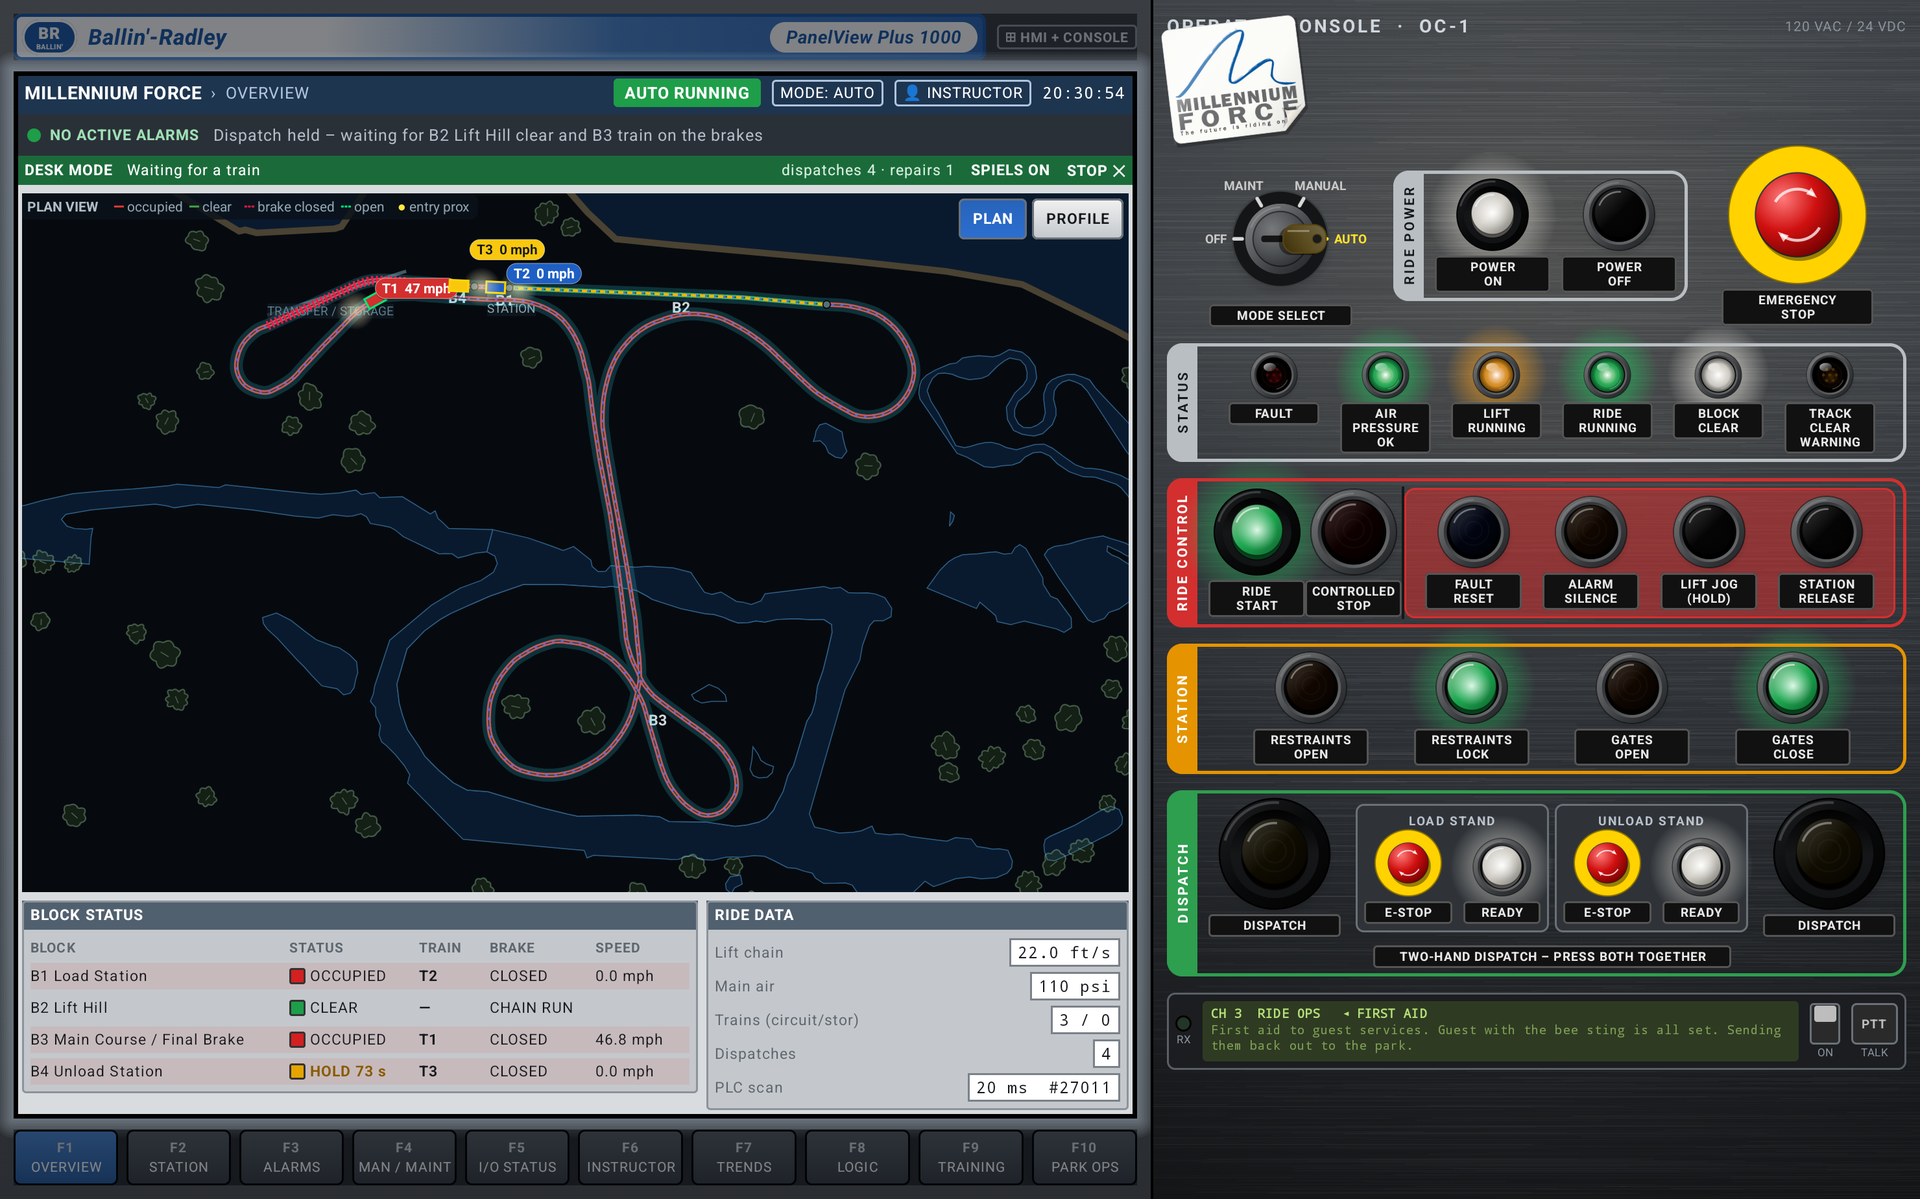
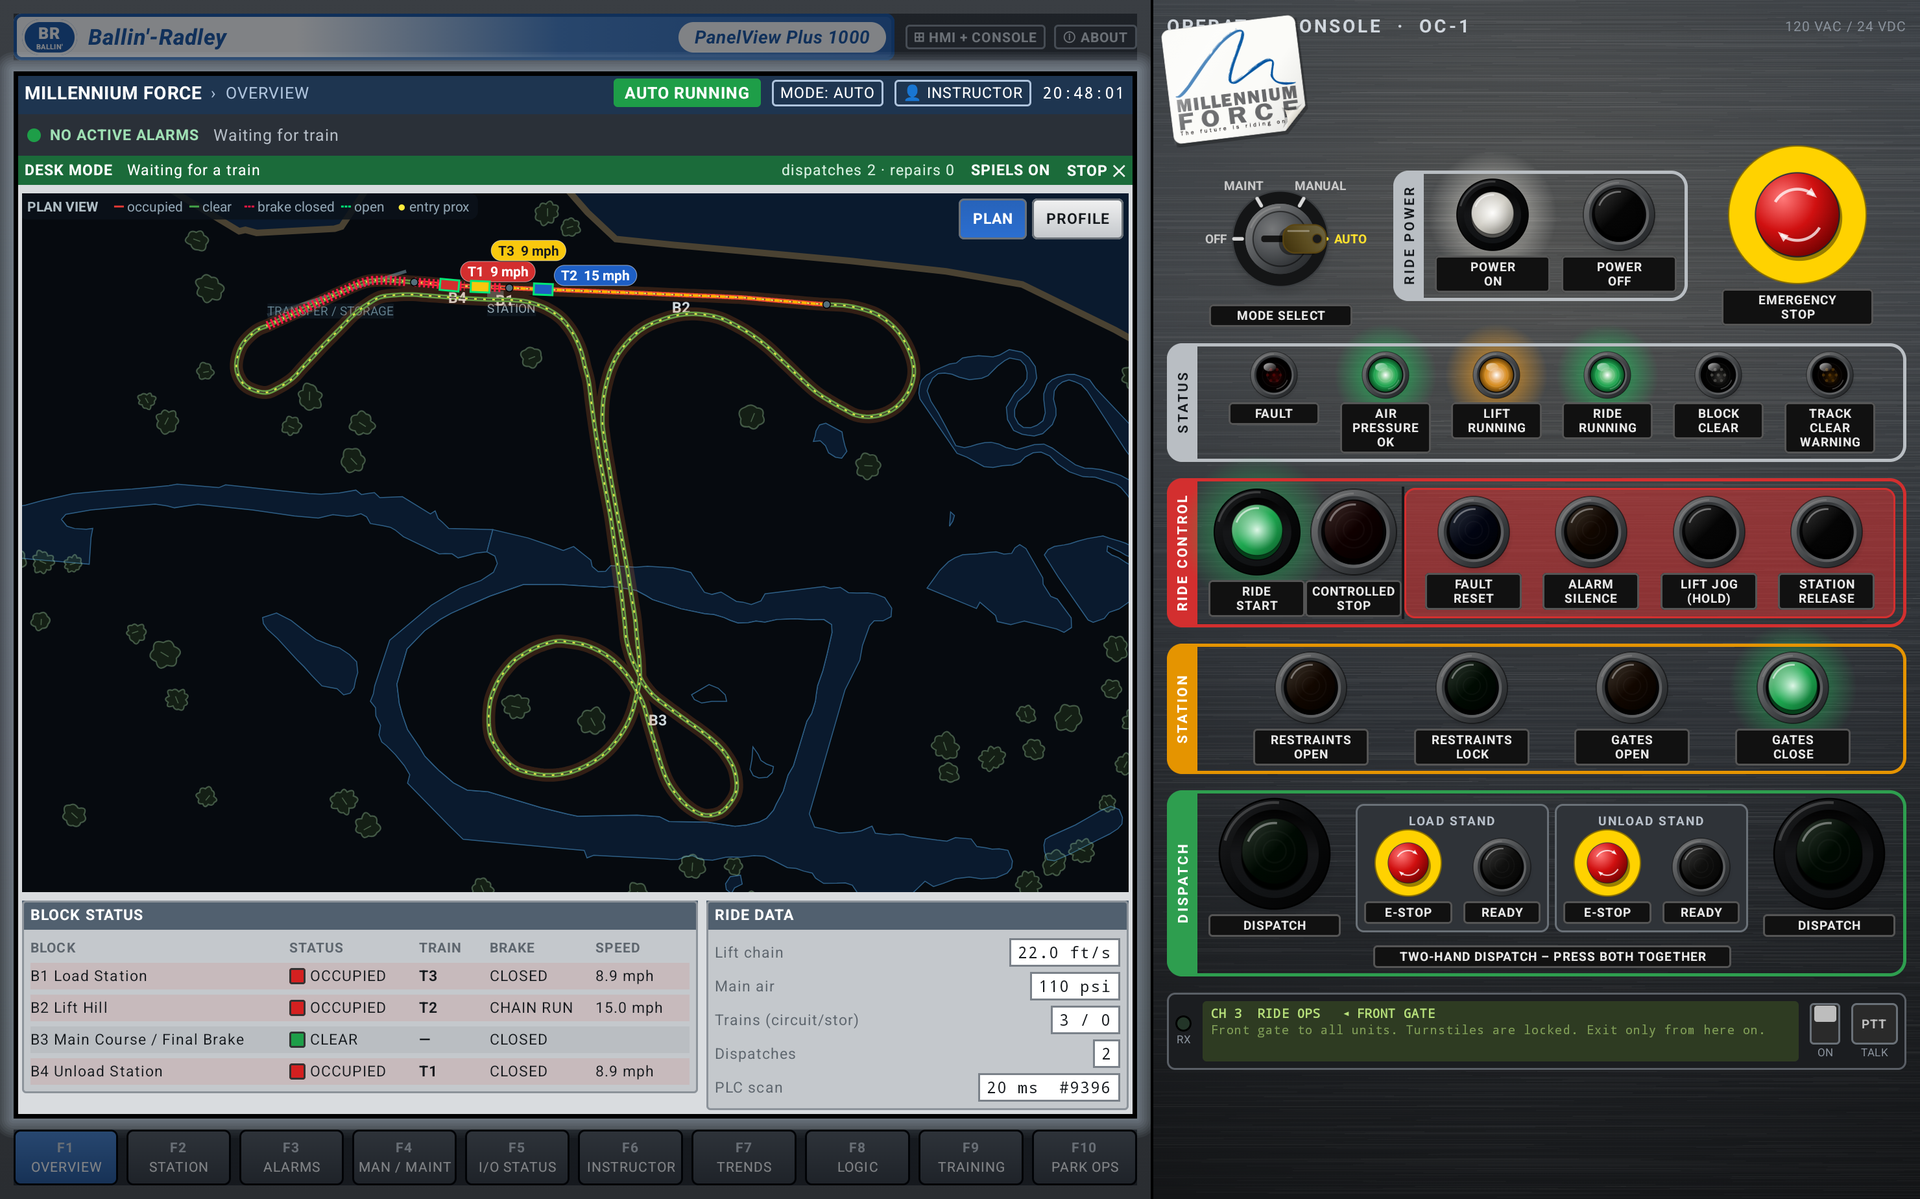
About screen with GPL notices; fix mirrored check ticks; drop train headlights
- New ABOUT chip (HMI bezel and live map header) opens the About screen: the
  app's GPL v3 Appropriate Legal Notices (copyright, author attribution required
  by the NOTICE section 7(b) term, no-warranty statement, source link) plus
  third-party notices, with offline viewers for LICENSE and NOTICE. Both files
  are copied into the APK's assets at build time.
- Station view: restraint-walk check badges were drawn inside the mirror
  transform used for right-exit stations (e.g. Millennium Force), so the ticks
  rendered backwards. They are now drawn unmirrored at the mirrored position.
- Night mode no longer draws headlights on the trains (coaster trains don't
  have them); in-app and README text updated.
- Version 1.2 (versionCode 3). README: About/attribution section, refreshed
  station and night screenshots.

diff --git a/app/src/main/java/com/abemu/coaster/ui/About.kt b/app/src/main/java/com/abemu/coaster/ui/About.kt
@@ -1,0 +1,133 @@
+package com.abemu.coaster.ui
+
+import androidx.compose.foundation.background
+import androidx.compose.foundation.border
+import androidx.compose.foundation.clickable
+import androidx.compose.foundation.layout.Arrangement
+import androidx.compose.foundation.layout.Box
+import androidx.compose.foundation.layout.Column
+import androidx.compose.foundation.layout.Row
+import androidx.compose.foundation.layout.fillMaxSize
+import androidx.compose.foundation.layout.fillMaxWidth
+import androidx.compose.foundation.layout.heightIn
+import androidx.compose.foundation.layout.padding
+import androidx.compose.foundation.layout.width
+import androidx.compose.foundation.rememberScrollState
+import androidx.compose.foundation.shape.RoundedCornerShape
+import androidx.compose.foundation.verticalScroll
+import androidx.compose.material3.Text
+import androidx.compose.runtime.Composable
+import androidx.compose.runtime.getValue
+import androidx.compose.runtime.mutableStateOf
+import androidx.compose.runtime.remember
+import androidx.compose.runtime.setValue
+import androidx.compose.ui.Alignment
+import androidx.compose.ui.Modifier
+import androidx.compose.ui.graphics.Color
+import androidx.compose.ui.platform.LocalContext
+import androidx.compose.ui.platform.LocalUriHandler
+import androidx.compose.ui.text.font.FontFamily
+import androidx.compose.ui.text.font.FontWeight
+import androidx.compose.ui.unit.dp
+import androidx.compose.ui.unit.sp
+import com.abemu.coaster.SimViewModel
+
+/** Project home, where the source code for every release is published. */
+const val SOURCE_URL = "https://github.com/ProcioneDeConti/Coaster-Panel-Sim-2026"
+
+/**
+ * The author attribution required by the additional terms in NOTICE (GPL v3 section 7(b)). Modified versions must
+ * keep showing it here, in the app's Appropriate Legal Notices.
+ */
+const val ATTRIBUTION = "Based on Coaster Panel Sim 2026 by ProcioneDeConti"
+
+/** Header chip that opens the About / legal notices screen. */
+@Composable
+fun AboutChip(vm: SimViewModel) {
+    Box(
+        Modifier.background(Color(0xFF3A3F45), RoundedCornerShape(3.dp)).border(1.dp, Color(0xFF8A939C), RoundedCornerShape(3.dp))
+            .clickable { Haptics.tick(); vm.showAbout = true }
+            .padding(horizontal = 6.dp, vertical = 2.dp),
+    ) {
+        Text("ⓘ ABOUT", color = Color(0xFFD5DAE0), fontSize = 10.sp, fontWeight = FontWeight.Bold)
+    }
+}
+
+private enum class AboutView { INFO, LICENSE, NOTICE }
+
+/**
+ * About screen: the app's Appropriate Legal Notices under the GPL v3 (copyright, author attribution, no-warranty
+ * statement, how to get the source and how to read the license), plus third-party notices.
+ */
+@Composable
+fun AboutScreen(vm: SimViewModel) {
+    val context = LocalContext.current
+    val uri = LocalUriHandler.current
+    var view by remember { mutableStateOf(AboutView.INFO) }
+    val version = remember {
+        runCatching { context.packageManager.getPackageInfo(context.packageName, 0).versionName }.getOrNull() ?: "?"
+    }
+    fun asset(name: String) = runCatching { context.assets.open("legal/$name").bufferedReader().use { it.readText() } }
+        .getOrDefault("The $name file is missing from this build. See $SOURCE_URL")
+
+    Box(
+        Modifier.fillMaxSize().background(Color.Black.copy(alpha = 0.6f)).clickable { vm.showAbout = false },
+        contentAlignment = Alignment.Center,
+    ) {
+        Column(
+            Modifier.width(820.dp).heightIn(max = 760.dp).background(Hmi.Screen).border(2.dp, Color.Black)
+                .clickable(enabled = false) {},
+        ) {
+            Row(Modifier.fillMaxWidth().background(Hmi.Header).padding(horizontal = 12.dp, vertical = 8.dp),
+                verticalAlignment = Alignment.CenterVertically) {
+                Text(when (view) { AboutView.INFO -> "ABOUT"; AboutView.LICENSE -> "GNU GENERAL PUBLIC LICENSE v3"; AboutView.NOTICE -> "NOTICE" },
+                    color = Color.White, fontSize = 14.sp, fontWeight = FontWeight.Bold, modifier = Modifier.weight(1f))
+                Text("v$version", color = Color(0xFFB0BEC5), fontSize = 12.sp)
+            }
+            Column(Modifier.weight(1f, fill = false).verticalScroll(rememberScrollState()).padding(14.dp),
+                verticalArrangement = Arrangement.spacedBy(8.dp)) {
+                when (view) {
+                    AboutView.INFO -> {
+                        Text("Coaster Panel Sim 2026", color = Hmi.Text, fontSize = 22.sp, fontWeight = FontWeight.Bold)
+                        HmiLabel("Roller coaster ride control panel simulator · version $version", 13.sp, color = Hmi.Dim)
+                        HmiLabel("Copyright © 2026 ProcioneDeConti", 14.sp, bold = true)
+                        HmiLabel(ATTRIBUTION, 13.sp)
+                        HmiLabel(SOURCE_URL, 13.sp, color = Hmi.Info, modifier = Modifier.clickable { runCatching { uri.openUri(SOURCE_URL) } })
+                        Section("LICENSE")
+                        HmiLabel("This program is free software: you can redistribute it and/or modify it under the terms of the GNU " +
+                            "General Public License as published by the Free Software Foundation, either version 3 of the License, " +
+                            "or (at your option) any later version.", 12.sp)
+                        HmiLabel("This program comes with ABSOLUTELY NO WARRANTY; without even the implied warranty of " +
+                            "MERCHANTABILITY or FITNESS FOR A PARTICULAR PURPOSE. See the GNU General Public License for details.", 12.sp)
+                        HmiLabel("Additional terms (GPL v3 section 7(b)): copies and modified versions must preserve the author " +
+                            "attribution above, in their source code and on their legal notices screen. See NOTICE.", 12.sp)
+                        HmiLabel("The complete source code is available at the address above.", 12.sp)
+                        Section("THIRD-PARTY NOTICES")
+                        HmiLabel("Track layouts and scenery: map data © OpenStreetMap contributors, available under the Open " +
+                            "Database License (ODbL). openstreetmap.org/copyright", 12.sp)
+                        HmiLabel("AndroidX and Jetpack Compose libraries: © The Android Open Source Project, Apache License 2.0.", 12.sp)
+                        HmiLabel("This is a fan project, not affiliated with or endorsed by any amusement park, ride manufacturer or " +
+                            "controls vendor. Ride and park names and logos belong to their respective owners. It is a simulation: " +
+                            "never use it as a reference for operating a real attraction.", 12.sp)
+                    }
+                    AboutView.LICENSE -> Text(remember { asset("LICENSE") }, color = Hmi.Text, fontSize = 11.sp,
+                        fontFamily = FontFamily.Monospace, lineHeight = 14.sp)
+                    AboutView.NOTICE -> Text(remember { asset("NOTICE") }, color = Hmi.Text, fontSize = 11.sp,
+                        fontFamily = FontFamily.Monospace, lineHeight = 14.sp)
+                }
+            }
+            Row(Modifier.fillMaxWidth().padding(10.dp), horizontalArrangement = Arrangement.spacedBy(8.dp)) {
+                HmiButton("ABOUT", Modifier.weight(1f), active = view == AboutView.INFO, activeColor = Hmi.Info) { view = AboutView.INFO }
+                HmiButton("VIEW LICENSE", Modifier.weight(1f), active = view == AboutView.LICENSE, activeColor = Hmi.Info) { view = AboutView.LICENSE }
+                HmiButton("VIEW NOTICE", Modifier.weight(1f), active = view == AboutView.NOTICE, activeColor = Hmi.Info) { view = AboutView.NOTICE }
+                HmiButton("SOURCE CODE", Modifier.weight(1f)) { runCatching { uri.openUri(SOURCE_URL) } }
+                HmiButton("CLOSE", Modifier.weight(1f), active = true, activeColor = Hmi.Ok) { vm.showAbout = false }
+            }
+        }
+    }
+}
+
+@Composable
+private fun Section(title: String) {
+    HmiLabel(title, 12.sp, bold = true, color = Hmi.Dim, modifier = Modifier.padding(top = 6.dp))
+}

diff --git a/app/src/main/java/com/abemu/coaster/ui/StationPage.kt b/app/src/main/java/com/abemu/coaster/ui/StationPage.kt
@@ -188,17 +188,20 @@ private fun StationFrame(plc: RidePlc) {
                             drawCircle(Color(0xFFF2D7B6), minOf(seat.width, seat.height) * 0.26f, so + Offset(seat.width * 0.6f, seat.height / 2))
                     }
                     if (!plant.rowLockSensor(r)) drawRoundRect(Color(0xFFFF5252), o, sz, corner, style = Stroke(2.5f * u))
-                    // Operator's push-pull check: a green tick badge on the car.
-                    if (plc.carChecked[r]) {
-                        val c = Offset(o.x + sz.width - 6 * u, o.y - 2 * u)
-                        drawCircle(Color.White, 7 * u, c)
-                        drawCircle(Locked, 6 * u, c)
-                        drawPath(Path().apply {
-                            moveTo(c.x - 3 * u, c.y); lineTo(c.x - 0.5f * u, c.y + 2.5f * u); lineTo(c.x + 3.5f * u, c.y - 2.5f * u)
-                        }, Color.White, style = Stroke(1.6f * u, cap = StrokeCap.Round))
-                    }
                 }
-            } else {
+            }
+            // Operator's push-pull check: a green tick badge on the car's rear corner. Drawn outside the mirror
+            // transform (only its position is mirrored) so the tick never reads backwards on right-exit stations.
+            if (st != null) for (r in 0 until rowsN) if (plc.carChecked[r]) {
+                val bx = margin + r * pitch + pitch - 8 * u
+                val c = Offset(if (flip) size.width - bx else bx, g.trainY - 2 * u)
+                drawCircle(Color.White, 7 * u, c)
+                drawCircle(Locked, 6 * u, c)
+                drawPath(Path().apply {
+                    moveTo(c.x - 3 * u, c.y); lineTo(c.x - 0.5f * u, c.y + 2.5f * u); lineTo(c.x + 3.5f * u, c.y - 2.5f * u)
+                }, Color.White, style = Stroke(1.6f * u, cap = StrokeCap.Round))
+            }
+            if (st == null) {
                 drawText(tm, "NO TRAIN IN STATION", Offset(margin, g.cy - 7 * u),
                     TextStyle(color = Color(0xFF8B949C), fontSize = 11.sp, fontWeight = FontWeight.Bold, letterSpacing = 2.sp))
             }

diff --git a/app/src/main/java/com/abemu/coaster/ui/Overview.kt b/app/src/main/java/com/abemu/coaster/ui/Overview.kt
@@ -30,7 +30,6 @@ import androidx.compose.ui.text.TextMeasurer
 import androidx.compose.ui.text.SpanStyle
 import androidx.compose.ui.text.buildAnnotatedString
 import androidx.compose.ui.text.withStyle
-import androidx.compose.ui.graphics.Brush
 import androidx.compose.ui.graphics.Color
 import androidx.compose.ui.graphics.luminance
 import androidx.compose.ui.graphics.Path
@@ -592,11 +591,6 @@ fun PlanDiagram(
                 val b = head - dir * back
                 moveTo((a + nrm * half).x, (a + nrm * half).y); lineTo((b + nrm * half).x, (b + nrm * half).y)
                 lineTo((b - nrm * half).x, (b - nrm * half).y); lineTo((a - nrm * half).x, (a - nrm * half).y); close()
-            }
-            if (night && t.spike <= 0) {
-                // Headlight: a pool of light ahead of the train.
-                val c0 = head + dir * 26f
-                drawCircle(Brush.radialGradient(listOf(Color(0x99FFF3C4), Color.Transparent), c0, 30f), 30f, c0)
             }
             drawPath(rect(7f, 25f, 10f), ring)
             drawPath(rect(4f, 22f, 7f), c)

diff --git a/app/src/main/java/com/abemu/coaster/MainActivity.kt b/app/src/main/java/com/abemu/coaster/MainActivity.kt
@@ -78,6 +78,7 @@ class MainActivity : ComponentActivity() {
                 RideHaptics(vm)
                 RadioPlayer(vm)
                 ScaledToDesign {
+                androidx.compose.foundation.layout.Box(Modifier.fillMaxSize()) {
                 Row(Modifier.fillMaxSize().background(Color(0xFF111316))) {
                     val divider = @androidx.compose.runtime.Composable {
                         androidx.compose.foundation.layout.Spacer(Modifier.width(2.dp).fillMaxHeight().background(Color.Black))
@@ -101,6 +102,8 @@ class MainActivity : ComponentActivity() {
                             OperatorConsole(vm, Modifier.weight(0.4f).fillMaxHeight())
                         }
                     }
+                }
+                if (vm.showAbout) com.abemu.coaster.ui.AboutScreen(vm)
                 }
                 }
             }

diff --git a/app/src/main/java/com/abemu/coaster/ui/OpsPage.kt b/app/src/main/java/com/abemu/coaster/ui/OpsPage.kt
@@ -275,7 +275,7 @@ private fun WeatherFrame(vm: SimViewModel, instructor: Boolean) {
                 HmiButton(l.label, Modifier.weight(1f), active = vm.lighting == l, activeColor = Hmi.Info, fontSize = 10.sp) { vm.lighting = l }
             }
         }
-        HmiLabel("Night: the console and HMI dim, lit lamps glow, and the plan view shows the track lighting and train headlights.",
+        HmiLabel("Night: the console and HMI dim, lit lamps glow, and the plan view shows the track lighting.",
             10.sp, color = Hmi.Dim)
     }
     HmiFrame("WEATHER (INSTRUCTOR)" + if (!instructor) "  – log in to change" else "") {

diff --git a/app/src/main/java/com/abemu/coaster/ui/Hmi.kt b/app/src/main/java/com/abemu/coaster/ui/Hmi.kt
@@ -105,6 +105,8 @@ fun HmiTerminal(vm: SimViewModel, modifier: Modifier = Modifier) {
             BezelHeader(Modifier.weight(1f))
             Spacer(Modifier.width(8.dp))
             LayoutChip(vm)
+            Spacer(Modifier.width(6.dp))
+            AboutChip(vm)
         }
         // Night: the bezel sits in the dark but the backlit screen stays bright and spills a soft glow onto it.
         Box(Modifier.weight(1f).fillMaxWidth().drawBehind { if (Night.on) screenGlow() }) {

diff --git a/app/src/main/java/com/abemu/coaster/ui/MapPane.kt b/app/src/main/java/com/abemu/coaster/ui/MapPane.kt
@@ -49,6 +49,8 @@ fun MapPane(vm: SimViewModel, modifier: Modifier = Modifier) {
             Text("LIVE MAP", color = Color(0xFFD5DAE0), fontSize = 13.sp, fontWeight = FontWeight.Bold)
             Spacer(Modifier.weight(1f))
             LayoutChip(vm)
+            androidx.compose.foundation.layout.Spacer(Modifier.width(6.dp))
+            AboutChip(vm)
         }
         Row(
             Modifier.fillMaxWidth().background(Hmi.Header).padding(horizontal = 8.dp, vertical = 5.dp),

diff --git a/app/src/main/java/com/abemu/coaster/SimViewModel.kt b/app/src/main/java/com/abemu/coaster/SimViewModel.kt
@@ -46,6 +46,8 @@ enum class ScreenLayout(val label: String) {
 
 class SimViewModel : ViewModel() {
     var layout by mutableStateOf(ScreenLayout.HMI_CONSOLE)
+    /** About / legal notices screen open (GPL v3 Appropriate Legal Notices). */
+    var showAbout by mutableStateOf(false)
     /** Serves the live map to browsers on other devices. */
     val mapServer = com.abemu.coaster.web.MapServer()
     var webMapOn by mutableStateOf(false); private set

diff --git a/README.md b/README.md
@@ -62,7 +62,7 @@ Android 8.0+, built for large landscape tablets (designed on a Galaxy Tab S9 Ult
   restraints, track clear sounder and fault horn.
 - **Radio chatter** from the supervisor, maintenance and other areas, with recorded voices. Some calls need an
   answer on the push-to-talk.
-- **Station music, station PA spiels**, haptics, and a **night mode** with track lighting and train headlights.
+- **Station music, station PA spiels**, haptics, and a **night mode** with track lighting.
 - **Guest queue** with a posted wait time. Guests balk at long waits and walk off the line when the ride is down.
 - **Desk mode**: a virtual crew runs the ride by itself and maintenance fixes its faults, so the tablet can sit on
   a desk cycling trains.
@@ -95,8 +95,8 @@ Or open **F6 INSTRUCTOR** and switch on **Desk display** to watch the virtual cr
 | Maintenance | 2580 |
 | Instructor | 1234 |
 
-> **Upgrading from a build before v1.1?** v1.1 is signed with a new release key. Uninstall the old build first,
-> since Android won't update an app signed with a different key.
+> **Upgrading from an earlier build?** Releases are signed with a release key, unlike builds made from source in
+> debug or `fast` mode. Uninstall the old build first, since Android won't update an app signed with a different key.
 
 ---
 
@@ -137,6 +137,12 @@ work must also be released under the GPL v3 with its source code available. Unde
 attribution:
 
 > Based on Coaster Panel Sim 2026 by ProcioneDeConti — https://github.com/ProcioneDeConti/Coaster-Panel-Sim-2026
+
+The app shows this attribution and the license notices on its **ⓘ ABOUT** screen, which also lets you read the
+full GPL v3 text and the NOTICE file offline. Modified versions must keep that attribution on their own legal
+notices screen.
+
+![About screen with copyright, attribution, license and third-party notices](docs/screenshots/about.png)
 
 ---
 
